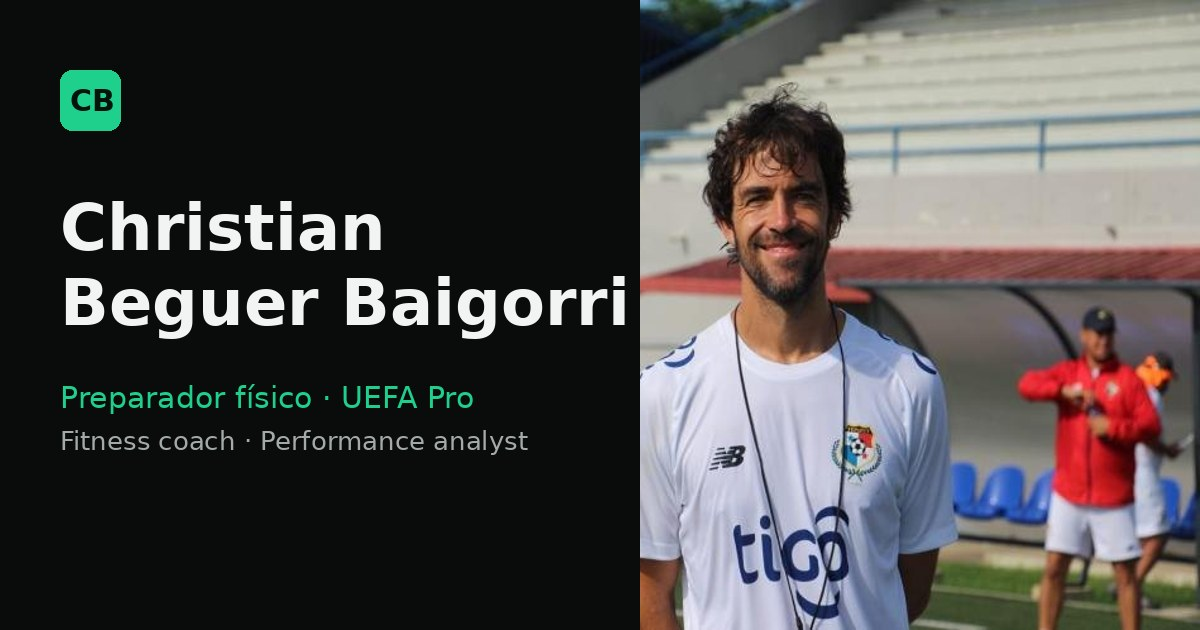
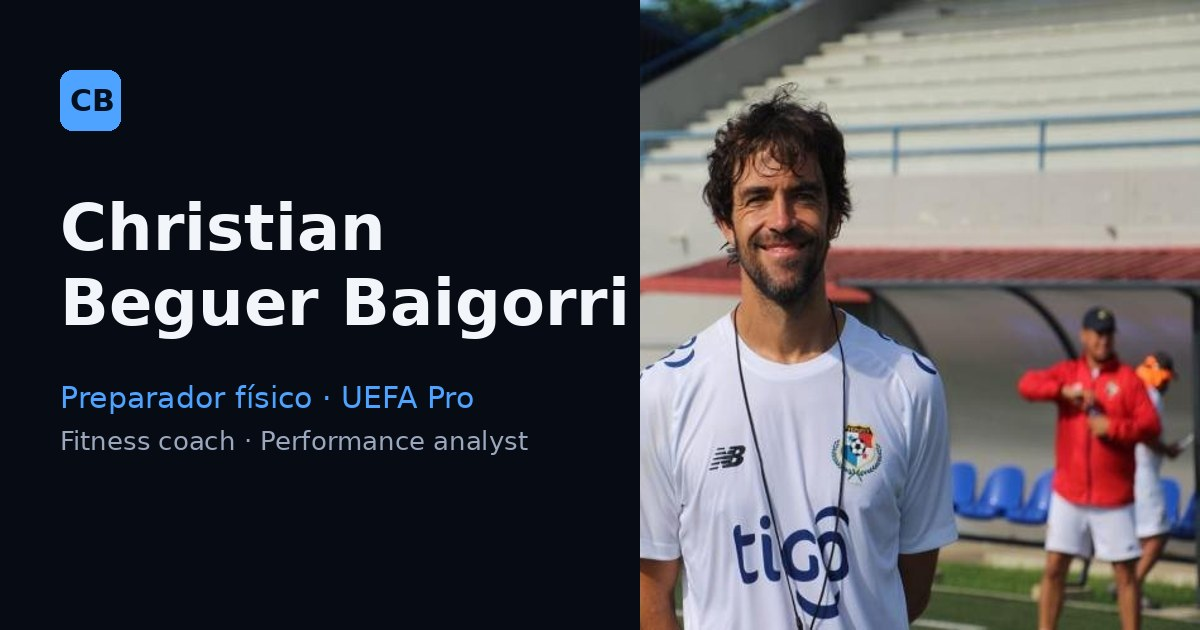
Cambiar color a azul noche
Claude-Session: https://claude.ai/code/session_01732RdqjBY5g9zhXG8q4YDt

Changed region(s): [[0.0308, 0.6032, 0.4008, 0.6635], [0.0308, 0.0905, 0.1233, 0.2111]]

diff --git a/index.html b/index.html
@@ -7,7 +7,7 @@
 <meta name="description" content="Christian Beguer Baigorri · Preparador físico, entrenador UEFA Pro y analista de rendimiento. Selección de Panamá 2020–2026 (Copa Oro 2023, Mundial 2026), Selección Española Sub-19/Sub-20, Union Saint-Gilloise y FC Banants.">
 <meta name="author" content="Christian Beguer Baigorri">
 <meta name="keywords" content="Christian Beguer, preparador físico, fitness coach, head of performance, sport scientist, UEFA Pro, Selección de Panamá, fútbol">
-<meta name="theme-color" content="#0a0b0b">
+<meta name="theme-color" content="#070b14">
 <link rel="icon" href="img/favicon.png">
 <meta property="og:type" content="profile">
 <meta property="og:title" content="Christian Beguer Baigorri · Preparador físico · UEFA Pro">
@@ -26,14 +26,14 @@
 /* VOICE: sobria y profesional, como la ficha de un cuerpo técnico de élite.
    IDEA: la ficha técnica de un miembro del staff, de noche bajo los focos del estadio.
    PICTURE: foto real a pie de campo + línea de tiempo de etapas con escudos-monograma.
-   COLOUR and TYPE: negro estadio, tarjetas grafito, verde césped como único acento; Archivo.
+   COLOUR and TYPE: azul noche de estadio, tarjetas azul pizarra, azul eléctrico como único acento; Archivo.
    LAYOUT: cabecera fija, portada con foto, trayectoria interactiva, logros, sobre mí, metodología, docencia, contacto.
 
    ── CÓMO EDITAR ──
    · Los textos en español están en el HTML; la versión inglesa va en el atributo data-en.
    · La trayectoria y los logros están en las listas STAGES y ACHIEVEMENTS, al final del archivo.
    · Las fotos están en la carpeta img/: sustituye el archivo manteniendo el nombre. */
-:root{color-scheme:dark;--bg:#0a0b0b;--card:#141716;--card2:#191d1b;--line:#262b29;--ink:#f2f4f3;--mut:#a3aba7;--acc:#1fcf8c;--acc-ink:#04140d}
+:root{color-scheme:dark;--bg:#070b14;--card:#0f1626;--card2:#131c30;--line:#22304a;--ink:#f2f5fa;--mut:#9aa7bd;--acc:#4da3ff;--acc-ink:#03101f;--alt:#0a1120}
 *{box-sizing:border-box;min-width:0}
 html{scroll-behavior:smooth;scroll-padding-top:84px}
 body{margin:0;background:var(--bg);color:var(--ink);font:16px/1.6 Archivo,system-ui,sans-serif;overflow-x:clip}
@@ -47,7 +47,7 @@ h2{font-size:clamp(32px,4.6vw,52px);font-weight:800;max-width:18ch}
 h3{font-size:20px;font-weight:700;line-height:1.25}
 .lead{color:var(--mut);font-size:17px;max-width:62ch}
 /* header */
-header{position:sticky;top:0;z-index:20;background:rgba(10,11,11,.88);backdrop-filter:blur(10px);border-bottom:1px solid var(--line)}
+header{position:sticky;top:0;z-index:20;background:rgba(7,11,20,.88);backdrop-filter:blur(10px);border-bottom:1px solid var(--line)}
 .nav{display:flex;align-items:center;gap:24px;min-height:72px}
 .brand{display:flex;align-items:center;gap:12px;text-decoration:none;font-weight:800;letter-spacing:.02em;white-space:nowrap}
 .mono{width:40px;height:40px;border-radius:10px;background:var(--acc);color:var(--acc-ink);display:grid;place-items:center;font-weight:800;font-size:17px}
@@ -70,7 +70,7 @@ button:focus-visible,a:focus-visible,input:focus-visible,select:focus-visible,te
 .btn.pri{background:var(--acc);border-color:var(--acc);color:var(--acc-ink)}
 .photo{position:relative;border-radius:20px;overflow:hidden;border:1px solid var(--line);aspect-ratio:4/3.4}
 .photo img{width:100%;height:100%;object-fit:cover}
-.photo::after{content:"";position:absolute;inset:0;background:linear-gradient(180deg,transparent 55%,rgba(10,11,11,.85))}
+.photo::after{content:"";position:absolute;inset:0;background:linear-gradient(180deg,transparent 55%,rgba(7,11,20,.85))}
 .photo figcaption{position:absolute;left:20px;bottom:16px;z-index:1;font-size:14px;color:var(--mut)}
 .stats{display:grid;grid-template-columns:repeat(4,minmax(0,1fr));border-top:1px solid var(--line);border-bottom:1px solid var(--line)}
 .stat{padding:26px 20px;border-left:1px solid var(--line)}
@@ -88,7 +88,7 @@ button:focus-visible,a:focus-visible,input:focus-visible,select:focus-visible,te
 .stg small{display:block;font-size:14px;margin:2px 0 8px}
 .lvl{display:inline-block;font-size:11px;font-weight:600;letter-spacing:.06em;text-transform:uppercase;border:1px solid var(--line);border-radius:4px;padding:2px 8px}
 .stg[aria-selected=true]{color:var(--ink)}
-.stg[aria-selected=true] .crest{background:var(--ink);color:var(--bg);border-color:var(--acc);box-shadow:0 0 0 5px rgba(31,207,140,.18)}
+.stg[aria-selected=true] .crest{background:var(--ink);color:var(--bg);border-color:var(--acc);box-shadow:0 0 0 5px rgba(77,163,255,.22)}
 .stg[aria-selected=true] b{color:var(--acc)}
 .stg[aria-selected=true] .lvl{background:var(--acc);border-color:var(--acc);color:var(--acc-ink)}
 .detail{display:grid;grid-template-columns:minmax(0,.85fr) minmax(0,1.15fr);border:1px solid var(--acc);border-radius:20px;overflow:hidden;background:var(--card);margin-top:22px}
@@ -257,7 +257,7 @@ footer .wrap{display:flex;justify-content:space-between;flex-wrap:wrap;gap:12px}
  </div>
 </section>
 
-<section id="sobre-mi" class="band" style="background:#0e100f;border-block:1px solid var(--line)">
+<section id="sobre-mi" class="band" style="background:var(--alt);border-block:1px solid var(--line)">
  <div class="wrap">
   <div class="about">
    <div>
@@ -293,7 +293,7 @@ footer .wrap{display:flex;justify-content:space-between;flex-wrap:wrap;gap:12px}
  </div>
 </section>
 
-<section id="formacion" class="band" style="background:#0e100f;border-block:1px solid var(--line)">
+<section id="formacion" class="band" style="background:var(--alt);border-block:1px solid var(--line)">
  <div class="wrap">
   <p class="eyebrow" data-en="Talks and teaching">Charlas y docencia</p>
   <h2 data-en="Sharing knowledge with coaches">Compartir conocimiento con entrenadores</h2>

diff --git a/README.md b/README.md
@@ -5,4 +5,4 @@ Web personal bilingüe (ES/EN). Se publica sola con GitHub Pages cada vez que ca
 - `index.html` · toda la web. Textos en español en el HTML y su versión inglesa en `data-en="…"`.
   Trayectoria, logros, formación, metodología, documentos y charlas están en listas al final del archivo.
 - `img/` · fotos. Para cambiar una, sube otra con el mismo nombre.
-- Color principal: línea `--acc:#1fcf8c` al principio de `index.html`.
+- Color principal: línea `--acc:#4da3ff` al principio de `index.html`.
